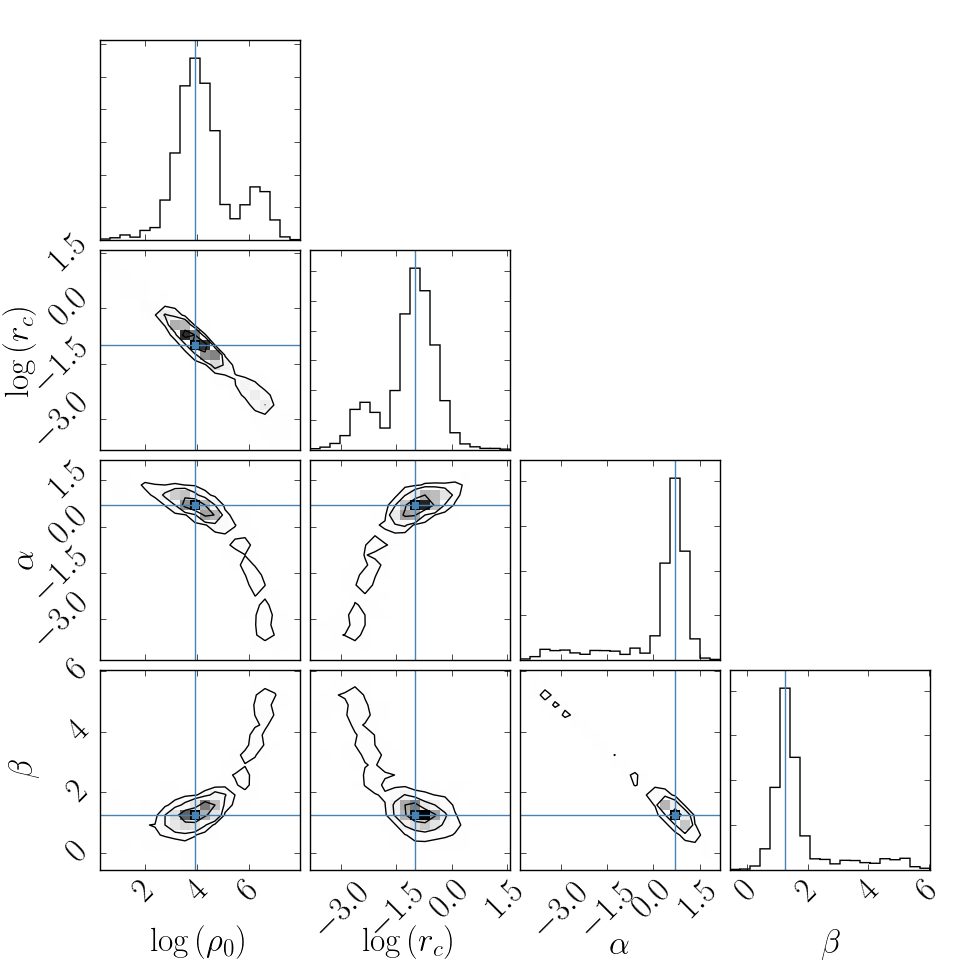
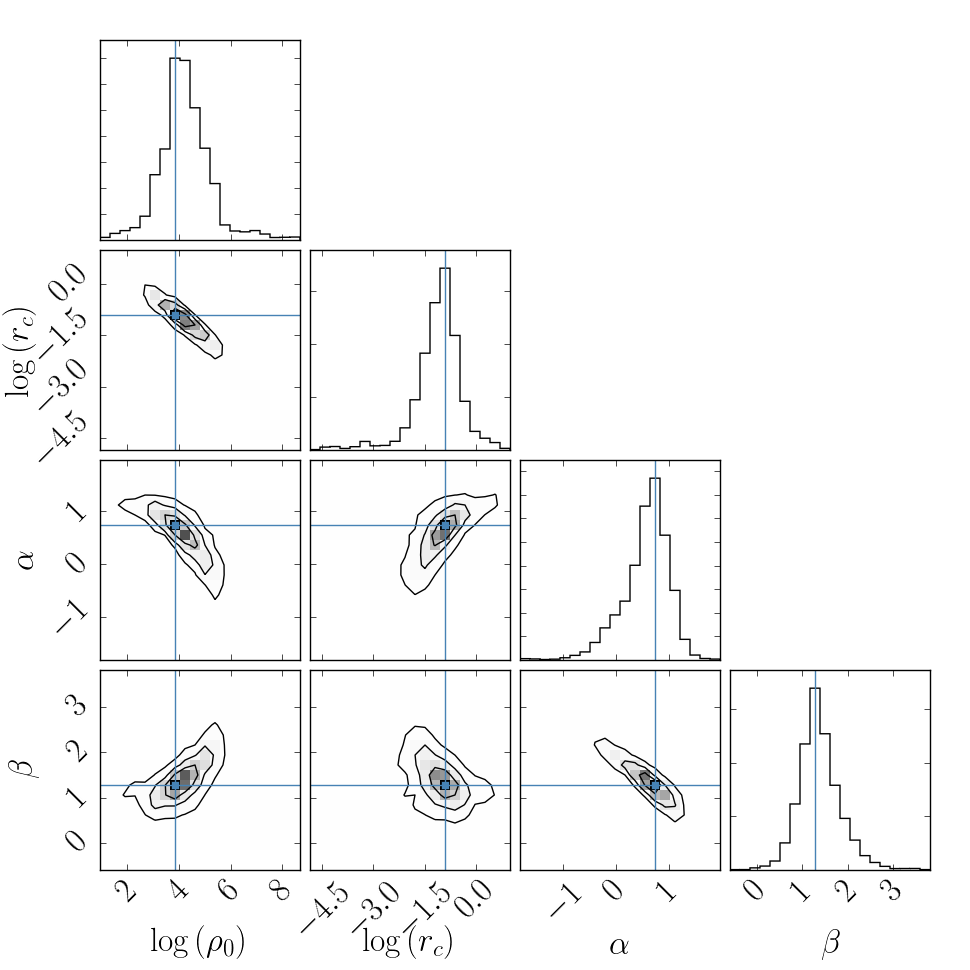
final push for mcmc

diff --git a/mcmc/fit.py b/mcmc/fit.py
@@ -1,7 +1,9 @@
-import sys
+import sys, warnings
 import numpy as np
 import matplotlib.pyplot as plt
 from mcmc import mcmc, model
+
+warnings.filterwarnings("ignore")
 
 plt.rc('text', usetex=True, fontsize=24)
 

diff --git a/mcmc/mcmc.py b/mcmc/mcmc.py
@@ -64,7 +64,7 @@ def mcmc(x_d, y_d):
 
     #MCMC Loop
 
-    n_steps = 60000
+    n_steps = 70000
 
     for i in range(n_steps):
 
